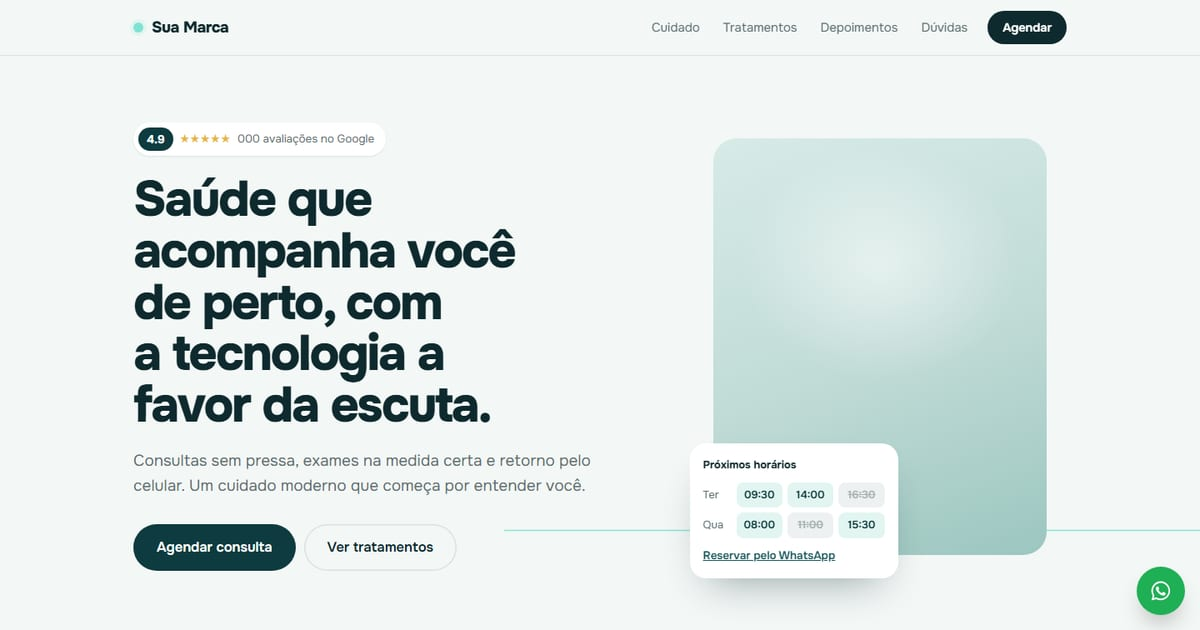
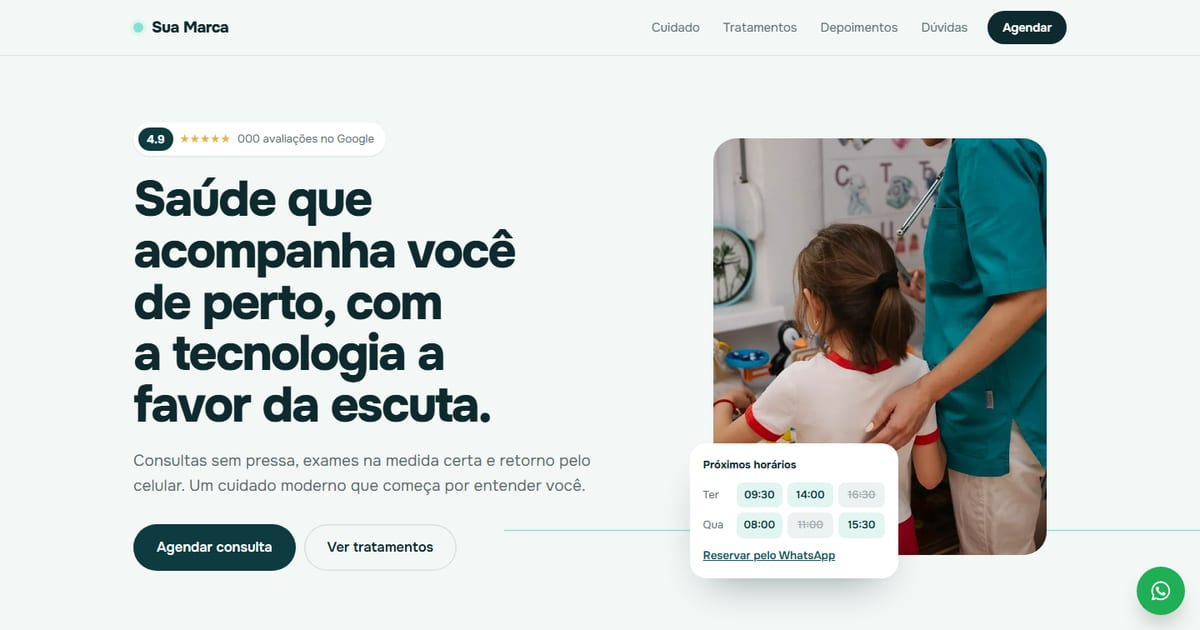
Fotos, tratamentos em vitrine e dúvidas alinhadas

Changed region(s): [[0.5858, 0.2111, 0.8942, 0.9048]]

diff --git a/app/app.vue b/app/app.vue
@@ -23,12 +23,13 @@ const diferenciais = [
   { t: 'Plano por escrito', d: 'Você sai com o tratamento explicado e os próximos passos claros.', i: 'doc' },
 ]
 const tratamentos = [
-  { t: 'Consulta de avaliação', d: 'Primeira conversa completa: histórico, exame clínico e plano inicial. Duração média de 50 minutos.' },
-  { t: 'Acompanhamento contínuo', d: 'Retornos periódicos para ajustar o tratamento conforme a sua evolução.' },
-  { t: 'Check-up preventivo', d: 'Avaliação anual com exames direcionados ao seu perfil e à sua idade.' },
-  { t: 'Teleconsulta', d: 'Atendimento por vídeo para retornos e orientações, sem sair de casa.' },
-  { t: 'Procedimentos em consultório', d: 'Pequenos procedimentos realizados no próprio consultório, com segurança.' },
+  { t: 'Consulta de avaliação', d: 'Primeira conversa completa: histórico, exame clínico e plano inicial, sem pressa.', dur: '50 min', modo: 'Presencial', img: 'avaliacao.webp' },
+  { t: 'Acompanhamento contínuo', d: 'Retornos periódicos para ajustar o tratamento conforme a sua evolução, para você e para a família.', dur: '30 min', modo: 'Presencial ou vídeo', img: 'acompanhamento.webp' },
+  { t: 'Check-up preventivo', d: 'Avaliação anual com exames direcionados ao seu perfil e à sua idade.', dur: '60 min', modo: 'Presencial', img: 'checkup.webp' },
+  { t: 'Teleconsulta', d: 'Atendimento por vídeo para retornos e orientações, sem sair de casa.', dur: '30 min', modo: 'Por vídeo', img: 'teleconsulta.webp' },
+  { t: 'Procedimentos em consultório', d: 'Pequenos procedimentos feitos no próprio consultório, com segurança e conforto.', dur: 'Varia', modo: 'Presencial', img: 'consultorio.webp' },
 ]
+const base = useRuntimeConfig().app.baseURL
 const depoimentos = [
   { n: 'Mariana S.', c: 'Paciente desde 2023', t: 'Pela primeira vez saí de uma consulta entendendo exatamente o que eu tinha e o que fazer.' },
   { n: 'Roberto A.', c: 'Check-up anual', t: 'Atendimento pontual, explicação clara e retorno rápido pelo WhatsApp quando precisei.' },
@@ -90,7 +91,7 @@ const mover = (dir: number) => trilho.value?.scrollBy({ left: dir * (trilho.valu
             </div>
           </div>
           <div class="hero-card">
-            <div class="ph ph-portrait"><span>Foto do profissional</span></div>
+            <img class="ph ph-portrait hero-img" :src="`${base}fotos/acompanhamento.webp`" width="1200" height="801" alt="Profissional de saúde atendendo uma criança acompanhada da mãe" fetchpriority="high">
             <div class="slot">
               <p class="slot-k">Próximos horários</p>
               <div class="slot-row"><span>Ter</span><b>09:30</b><b>14:00</b><b class="off">16:30</b></div>
@@ -118,7 +119,7 @@ const mover = (dir: number) => trilho.value?.scrollBy({ left: dir * (trilho.valu
       <!-- SOBRE -->
       <section class="sec about">
         <div class="wrap about-grid">
-          <div class="ph ph-about"><span>Foto no consultório</span></div>
+          <img class="ph ph-about about-img" :src="`${base}fotos/teleconsulta.webp`" width="1200" height="800" alt="Médico em atendimento por vídeo no consultório" loading="lazy">
           <div>
             <p class="k">{{ site.especialidade }}</p>
             <h2 class="h2">{{ site.profissional }}</h2>
@@ -135,19 +136,31 @@ const mover = (dir: number) => trilho.value?.scrollBy({ left: dir * (trilho.valu
 
       <!-- TRATAMENTOS -->
       <section id="tratamentos" class="sec">
-        <div class="wrap tr-grid">
-          <div>
-            <h2 class="h2">Tratamentos</h2>
-            <p class="muted">Toque em cada um para ver como funciona.</p>
-            <a class="btn btn-teal" :href="wa('Olá! Quero saber mais sobre os tratamentos.')" target="_blank" rel="noopener">Tirar dúvida</a>
+        <div class="wrap">
+          <div class="tr-head">
+            <div><h2 class="h2">Tratamentos</h2><p class="muted">Escolha um para ver como funciona.</p></div>
+            <a class="btn btn-line" :href="wa('Olá! Quero saber mais sobre os tratamentos.')" target="_blank" rel="noopener">Tirar dúvida</a>
           </div>
-          <div class="acc">
-            <div v-for="(t, i) in tratamentos" :key="t.t" class="acc-item" :class="{ open: aberto === i }">
-              <button type="button" :aria-expanded="aberto === i" @click="aberto = aberto === i ? null : i">
-                <span class="acc-n">{{ String(i + 1).padStart(2, '0') }}</span>{{ t.t }}<span class="acc-plus" />
-              </button>
-              <div class="acc-body"><p>{{ t.d }}</p></div>
-            </div>
+          <div class="tr-vitrine">
+            <ul class="tr-lista" role="tablist" aria-label="Tratamentos">
+              <li v-for="(t, i) in tratamentos" :key="t.t">
+                <button type="button" role="tab" :aria-selected="aberto === i" :class="{ on: aberto === i }" @click="aberto = i">
+                  <img :src="`${base}fotos/${t.img}`" width="96" height="64" alt="" loading="lazy">
+                  <span><b>{{ t.t }}</b><small>{{ t.dur }} · {{ t.modo }}</small></span>
+                </button>
+              </li>
+            </ul>
+            <Transition name="tr" mode="out-in">
+              <article :key="aberto ?? 0" class="tr-painel" role="tabpanel">
+                <img :src="`${base}fotos/${tratamentos[aberto ?? 0].img}`" width="1200" height="800" :alt="tratamentos[aberto ?? 0].t" loading="lazy">
+                <div class="tr-info">
+                  <h3>{{ tratamentos[aberto ?? 0].t }}</h3>
+                  <p>{{ tratamentos[aberto ?? 0].d }}</p>
+                  <dl><div><dt>Duração</dt><dd>{{ tratamentos[aberto ?? 0].dur }}</dd></div><div><dt>Formato</dt><dd>{{ tratamentos[aberto ?? 0].modo }}</dd></div></dl>
+                  <a class="btn btn-teal" :href="wa(`Olá! Quero agendar: ${tratamentos[aberto ?? 0].t}.`)" target="_blank" rel="noopener">Agendar este atendimento</a>
+                </div>
+              </article>
+            </Transition>
           </div>
         </div>
       </section>
@@ -175,11 +188,11 @@ const mover = (dir: number) => trilho.value?.scrollBy({ left: dir * (trilho.valu
 
       <!-- FAQ + CONTATO -->
       <section id="duvidas" class="sec">
-        <div class="wrap faq-grid">
-          <div class="faq">
-            <h2 class="h2">Perguntas que chegam ao consultório</h2>
+        <div class="wrap">
+          <h2 class="h2 faq-tit">Perguntas que chegam ao consultório</h2>
+          <div class="faq-grid">
             <div class="rx-abas" role="tablist" aria-label="Perguntas">
-              <button v-for="(f, i) in faq" :key="f.q" type="button" role="tab" :aria-selected="receita === i" :class="{ on: receita === i }" @click="receita = i">{{ f.q }}</button>
+              <button v-for="(f, i) in faq" :key="f.q" type="button" role="tab" :aria-selected="receita === i" :class="{ on: receita === i }" @click="receita = i"><span class="rx-n" aria-hidden="true">{{ i + 1 }}</span>{{ f.q }}</button>
             </div>
             <article class="rx" role="tabpanel" aria-live="polite">
               <header class="rx-topo">
@@ -191,12 +204,10 @@ const mover = (dir: number) => trilho.value?.scrollBy({ left: dir * (trilho.valu
               <footer class="rx-assina"><span class="rx-linha" aria-hidden="true" /><span>{{ site.profissional }} · {{ site.registro }}</span></footer>
             </article>
           </div>
-          <div class="contact">
-            <p class="k">Agende agora</p>
-            <h3>Fale com a recepção pelo WhatsApp.</h3>
-            <p>Respondemos em horário comercial. Para urgências, procure um pronto atendimento.</p>
-            <a class="btn btn-wa btn-lg" :href="wa()" target="_blank" rel="noopener"><svg><use href="#i-wa" /></svg> Agendar pelo WhatsApp</a>
+          <div class="contato-faixa">
+            <div><h3>Fale com a recepção pelo WhatsApp</h3><p>Respondemos em horário comercial. Para urgências, procure um pronto atendimento.</p></div>
             <p class="addr">{{ site.endereco }}<br>{{ site.telefone }}</p>
+            <a class="btn btn-wa btn-lg" :href="wa()" target="_blank" rel="noopener"><svg><use href="#i-wa" /></svg> Agendar pelo WhatsApp</a>
           </div>
         </div>
       </section>
@@ -214,7 +225,7 @@ const mover = (dir: number) => trilho.value?.scrollBy({ left: dir * (trilho.valu
         </div>
       </div>
       <div class="wrap"><div class="rod-bot">
-        <span>© {{ new Date().getFullYear() }} {{ site.marca }}. Todos os direitos reservados.</span>
+        <span>© {{ new Date().getFullYear() }} {{ site.marca }}. Fotos de ambientação: Harrison Keely, Shixart1985, Intel Free Press e Stethoscopes, via Wikimedia Commons (CC BY e CC BY-SA).</span>
         <a class="rod-credit" href="https://www.ontrackagenciadigital.com.br/" target="_blank" rel="noopener">Desenvolvido por <b>OnTrack Agência Digital</b></a>
       </div></div>
     </footer>

diff --git a/app/assets/css/main.css b/app/assets/css/main.css
@@ -163,3 +163,47 @@ h1{ margin-top:22px; font-size:clamp(36px, 5vw, 60px); font-weight:800; line-hei
 html{ touch-action:manipulation; -webkit-tap-highlight-color:rgba(14,59,63,.18); }
 .skip{ position:absolute; left:-9999px; top:12px; z-index:100; padding:10px 16px; border-radius:8px; background:#111; color:#fff; font-weight:700; text-decoration:none; }
 .skip:focus-visible{ left:12px; }
+
+/* ===== v2: fotos, tratamentos em vitrine, dúvidas alinhadas ===== */
+img.ph{ display:block; width:100%; object-fit:cover; padding:0; }
+img.ph::after{ display:none; }
+.hero-img{ object-position:50% 60%; }
+
+.tr-head{ display:flex; flex-wrap:wrap; justify-content:space-between; align-items:flex-end; gap:16px 32px; margin-bottom:32px; }
+.tr-head .muted{ margin-top:8px; }
+.tr-vitrine{ display:grid; gap:20px; align-items:stretch; }
+@media (min-width:900px){ .tr-vitrine{ grid-template-columns:.85fr 1.15fr; gap:28px; } }
+.tr-lista{ list-style:none; margin:0; padding:0; display:grid; gap:10px; align-content:start; }
+.tr-lista button{ display:flex; align-items:center; gap:16px; width:100%; padding:10px 16px 10px 10px; border:0; border-radius:18px; background:var(--white); text-align:left; font:inherit; color:var(--ink); cursor:pointer; transition:background-color .2s, color .2s, box-shadow .2s; }
+.tr-lista button:hover{ box-shadow:inset 0 0 0 1.5px var(--mint); }
+.tr-lista button.on{ background:var(--teal); color:#fff; }
+.tr-lista img{ width:72px; height:56px; flex:none; object-fit:cover; border-radius:12px; }
+.tr-lista b{ display:block; font-size:16.5px; letter-spacing:-.01em; } .tr-lista small{ font-size:13px; opacity:.75; }
+.tr-painel{ display:grid; overflow:hidden; border-radius:28px; background:var(--white); }
+.tr-painel img{ width:100%; aspect-ratio:16 / 9; object-fit:cover; }
+.tr-info{ display:grid; gap:14px; padding:24px 28px 28px; }
+.tr-info h3{ font-size:24px; letter-spacing:-.02em; }
+.tr-info p{ color:var(--muted); max-width:52ch; }
+.tr-info dl{ display:flex; gap:28px; margin:0; } .tr-info dt{ font-size:12.5px; font-weight:600; color:var(--muted); } .tr-info dd{ margin:0; font-weight:700; }
+.tr-info .btn{ justify-self:start; }
+.tr-enter-active, .tr-leave-active{ transition:opacity .25s, transform .25s var(--ease); } .tr-enter-from{ opacity:0; transform:translateY(8px); } .tr-leave-to{ opacity:0; }
+@media (max-width:899px){ .tr-lista{ grid-template-columns:1fr; } }
+@media (max-width:560px){ .tr-info{ padding:20px; } .tr-info .btn{ justify-self:stretch; } }
+
+.faq-tit{ max-width:none; margin-bottom:28px; }
+.faq-grid{ display:grid; gap:20px; align-items:start; }
+@media (min-width:900px){ .faq-grid{ grid-template-columns:.8fr 1.2fr; gap:28px; } }
+.rx-abas{ display:grid; gap:8px; margin:0; }
+.rx-abas button{ display:flex; align-items:center; gap:12px; width:100%; padding:14px 16px; border-radius:16px; text-align:left; font-size:15px; }
+.rx-n{ display:grid; place-items:center; width:28px; height:28px; flex:none; border-radius:50%; background:var(--mint-soft); color:var(--teal); font-size:13px; font-weight:700; }
+.rx-abas button.on .rx-n{ background:rgba(255,255,255,.18); color:#fff; }
+.contato-faixa{ display:grid; gap:18px; align-items:center; margin-top:40px; padding:28px 32px; border-radius:26px; background:var(--teal); color:#fff; }
+@media (min-width:900px){ .contato-faixa{ grid-template-columns:1.3fr 1fr auto; gap:32px; } }
+.contato-faixa h3{ font-size:22px; letter-spacing:-.02em; } .contato-faixa p{ color:rgba(255,255,255,.75); font-size:15px; margin-top:4px; }
+.contato-faixa .addr{ margin:0; color:#fff; font-size:15px; line-height:1.55; }
+@media (max-width:560px){ .contato-faixa{ padding:24px 20px; } .contato-faixa .btn{ width:100%; } }
+img.ph, .tr-painel img, .tr-lista img{ height:auto; }
+.tr-lista img{ height:56px; }
+.hero-img{ object-position:62% 50%; }
+.about-img{ aspect-ratio:4 / 5; object-position:70% 50%; }
+.tr-painel{ align-self:start; }
